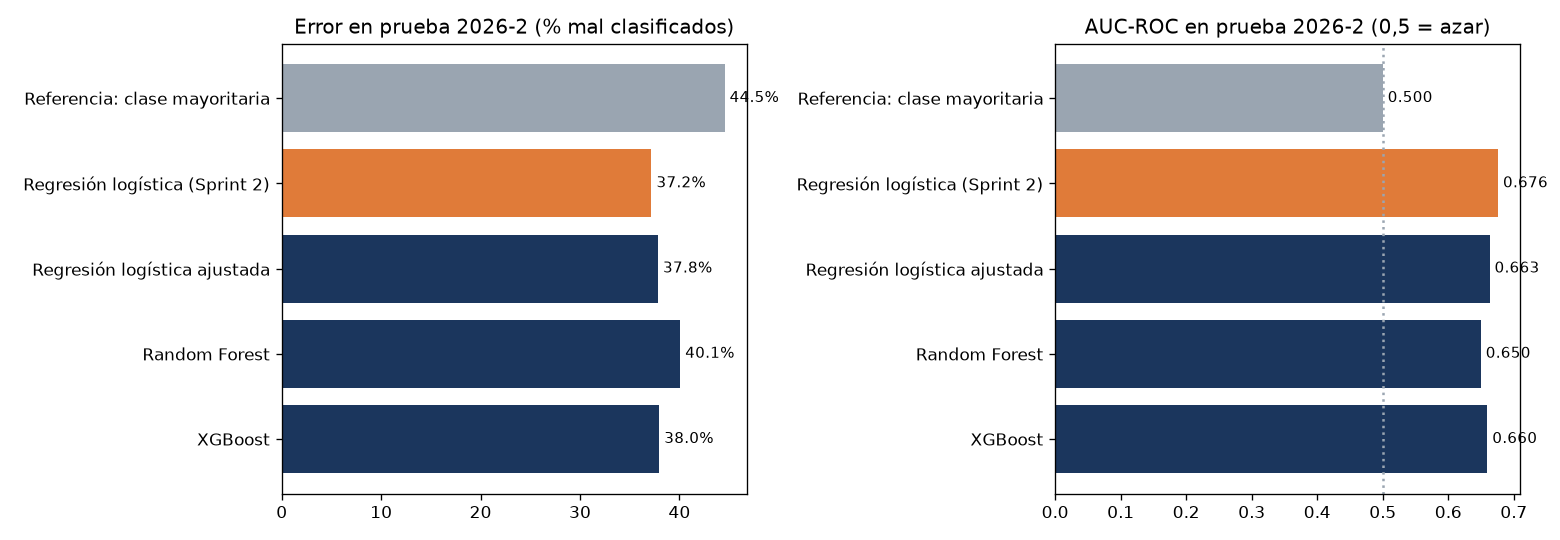
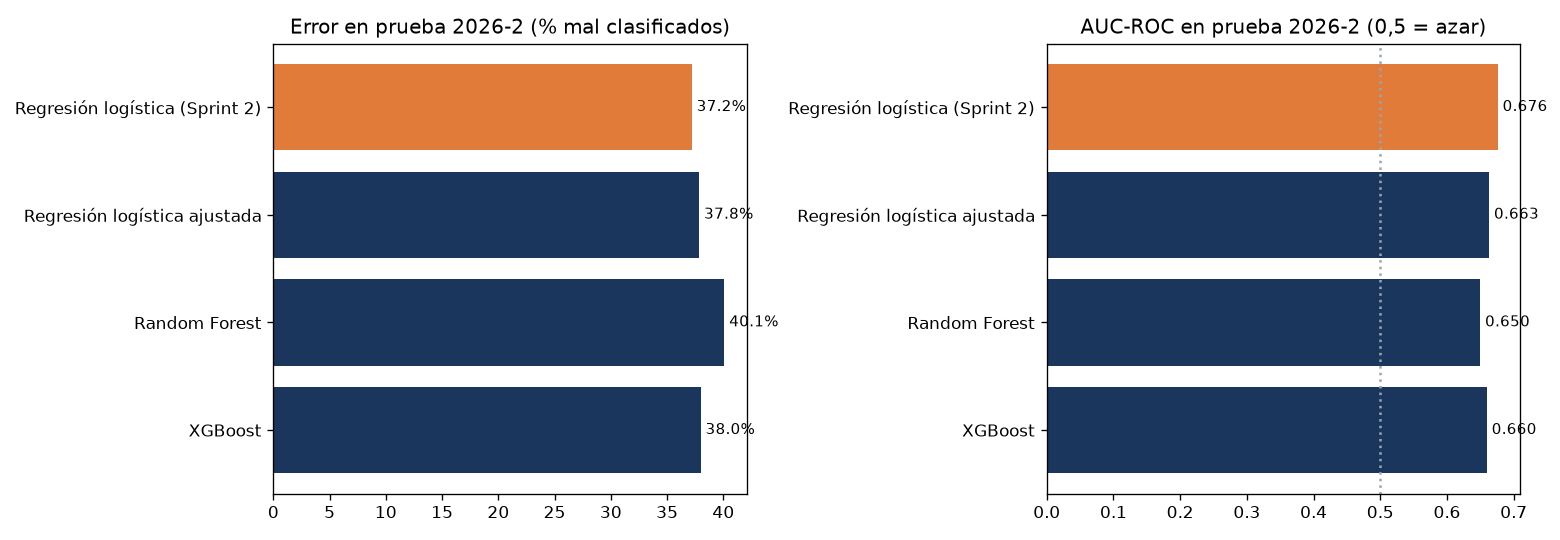
Sprint 3: comparación contra la regresión logística del Sprint 2

diff --git a/sprints/sprint_3_modelado/ejecutar_sprint3.py b/sprints/sprint_3_modelado/ejecutar_sprint3.py
@@ -42,7 +42,7 @@ RES, FIG, MOD = AQUI / "resultados", AQUI / "resultados" / "figuras", AQUI / "mo
 AZUL, NARANJA, GRIS = "#1B365D", "#E07B39", "#9AA5B1"
 COMPLEJIDAD = ["logistica", "random_forest", "xgboost"]          # de más simple a más compleja
 NOMBRE = {"logistica_sprint2": "Regresión logística (Sprint 2)", "logistica": "Regresión logística ajustada",
-          "random_forest": "Random Forest", "xgboost": "XGBoost", "clase_mayoritaria": "Referencia: clase mayoritaria"}
+          "random_forest": "Random Forest", "xgboost": "XGBoost"}
 VERSION = "s3-" + date.today().isoformat()
 
 
@@ -67,16 +67,14 @@ def objetivo_matricula(d: pd.DataFrame, ref: dict, cfg: dict) -> dict:
 
     semilla, c2 = cfg["modelado"]["semilla"], cfg["modelado"]["sprint2_logistica"]
     # La logística del Sprint 2 se reentrena con entrenamiento + validación, igual que los demás (comparación justa)
-    modelos = {"clase_mayoritaria": mo.ClaseMayoritaria().fit(ev, ev["matriculado"]),
-               "logistica_sprint2": mo.construir_pipeline("logistica", c2, V, semilla).fit(X(ev), y(ev))}
+    modelos = {"logistica_sprint2": mo.construir_pipeline("logistica", c2, V, semilla).fit(X(ev), y(ev))}
     for tipo in COMPLEJIDAD:
         modelos[tipo] = mo.construir_pipeline(tipo, mejores[tipo]["parametros"], V, semilla).fit(X(ev), y(ev))
-    prob = {n: (m.predict_proba(t)[:, 1] if n == "clase_mayoritaria" else m.predict_proba(X(t))[:, 1])
-            for n, m in modelos.items()}
+    prob = {n: m.predict_proba(X(t))[:, 1] for n, m in modelos.items()}
     prueba = {n: mo.metricas(y(t), p, cfg["modelado"]["umbral_clasificacion"]) for n, p in prob.items()}
     for n in prueba:
         prueba[n]["ic95_auc"] = mo.intervalo_bootstrap(y(t), prob[n], lambda a, b, u: roc_auc_score(a, b))
-    tabla = mo.tabla_metricas({NOMBRE[n]: prueba[n] for n in ["clase_mayoritaria", "logistica_sprint2", *COMPLEJIDAD]})
+    tabla = mo.tabla_metricas({NOMBRE[n]: prueba[n] for n in ["logistica_sprint2", *COMPLEJIDAD]})
     tabla.to_csv(RES / "matricula_comparacion_prueba.csv", encoding="utf-8-sig")
 
     # Modelos para usar: reentrenados con TODO el histórico
@@ -114,7 +112,7 @@ def tabla_prediccion(d: pd.DataFrame, ref: dict, cfg: dict, final_m, elegido_m: 
 def figuras(r1: dict) -> None:
     t = r1["tabla"]
     fig, ejes = plt.subplots(1, 2, figsize=(13, 4.5))
-    colores = [GRIS, NARANJA, AZUL, AZUL, AZUL]
+    colores = [NARANJA, AZUL, AZUL, AZUL]
     for ax, col, titulo in [(ejes[0], "error_pct", "Error en prueba 2026-2 (% mal clasificados)"),
                             (ejes[1], "auc_roc", "AUC-ROC en prueba 2026-2 (0,5 = azar)")]:
         ax.barh(t.index, t[col], color=colores)
@@ -129,8 +127,6 @@ def figuras(r1: dict) -> None:
 
     fig, ejes = plt.subplots(1, 2, figsize=(12, 5))
     for n, p in r1["prob"].items():
-        if n == "clase_mayoritaria":
-            continue
         fpr, tpr, _ = roc_curve(r1["y_prueba"], p)
         ejes[0].plot(fpr, tpr, label=f"{NOMBRE[n]} (AUC {r1['prueba'][n]['auc_roc']:.3f})")
         frac, media = calibration_curve(r1["y_prueba"], p, n_bins=8, strategy="quantile")

diff --git a/src/modelado.py b/src/modelado.py
@@ -1,9 +1,8 @@
 """Modelos y métricas de la matrícula (Sprint 2: regresión logística · Sprint 3: comparación con Random Forest y XGBoost).
 
 El primer modelo del proyecto (Sprint 2) es una REGRESIÓN LOGÍSTICA sin ajuste de hiperparámetros
-(config/reglas_negocio.yaml -> modelado.sprint2_logistica). Se compara con la referencia mínima de decir siempre
-"no se matricula" (ClaseMayoritaria). En el Sprint 3 se ajustan los hiperparámetros con la validación y se compara con
-Random Forest y XGBoost.
+(config/reglas_negocio.yaml -> modelado.sprint2_logistica): es el modelo base del proyecto. En el Sprint 3 se ajustan
+sus hiperparámetros con la validación y se compara con Random Forest y XGBoost.
 """
 from __future__ import annotations
 
@@ -11,17 +10,6 @@ import numpy as np
 import pandas as pd
 from sklearn.metrics import (average_precision_score, brier_score_loss, f1_score, log_loss, precision_score,
                              recall_score, roc_auc_score)
-
-
-class ClaseMayoritaria:
-    """Referencia mínima: siempre predice la tasa global (todos iguales). Cualquier modelo útil debe superarla."""
-
-    def fit(self, X, y):
-        self.tasa_ = float(np.mean(np.asarray(y, dtype=float)))
-        return self
-
-    def predict_proba(self, X):
-        return np.column_stack([np.full(len(X), 1 - self.tasa_), np.full(len(X), self.tasa_)])
 
 
 def metricas(y, p, umbral: float = 0.5) -> dict:

diff --git a/src/datos.py b/src/datos.py
@@ -48,6 +48,8 @@ def cargar(tabla: str, fuente: str = "auto") -> tuple[pd.DataFrame, str]:
         try:
             from conexion_supabase import crear_cliente, leer_dataset_matricula
             df = leer_dataset_matricula(crear_cliente(), tabla=tabla)
+            if df.empty:                       # la tabla existe pero no tiene filas (o la API no deja leerlas)
+                raise RuntimeError(f"La tabla {tabla} está vacía en Supabase: cárguela con python src/s05_cargar_supabase.py.")
             return preparar_tipos(df), "Supabase (API de solo lectura)"
         except Exception as error:
             if fuente == "supabase":

diff --git a/README.md b/README.md
@@ -18,7 +18,6 @@ modelos rinden igual.
 
 | Modelo (prueba 2026-2) | Error % | AUC-ROC (IC 95%) | Brier |
 |---|---|---|---|
-| Sin modelo (clase mayoritaria) | 44,5% | 0,500 | 0,247 |
 | Regresión logística del Sprint 2 (C = 1) | 37,2% | 0,676 (0,638–0,711) | 0,226 |
 | **Regresión logística ajustada (elegida, C = 0,01)** | **37,8%** | **0,663 (0,624–0,700)** | **0,228** |
 | Random Forest | 40,1% | 0,650 (0,612–0,686) | 0,233 |
